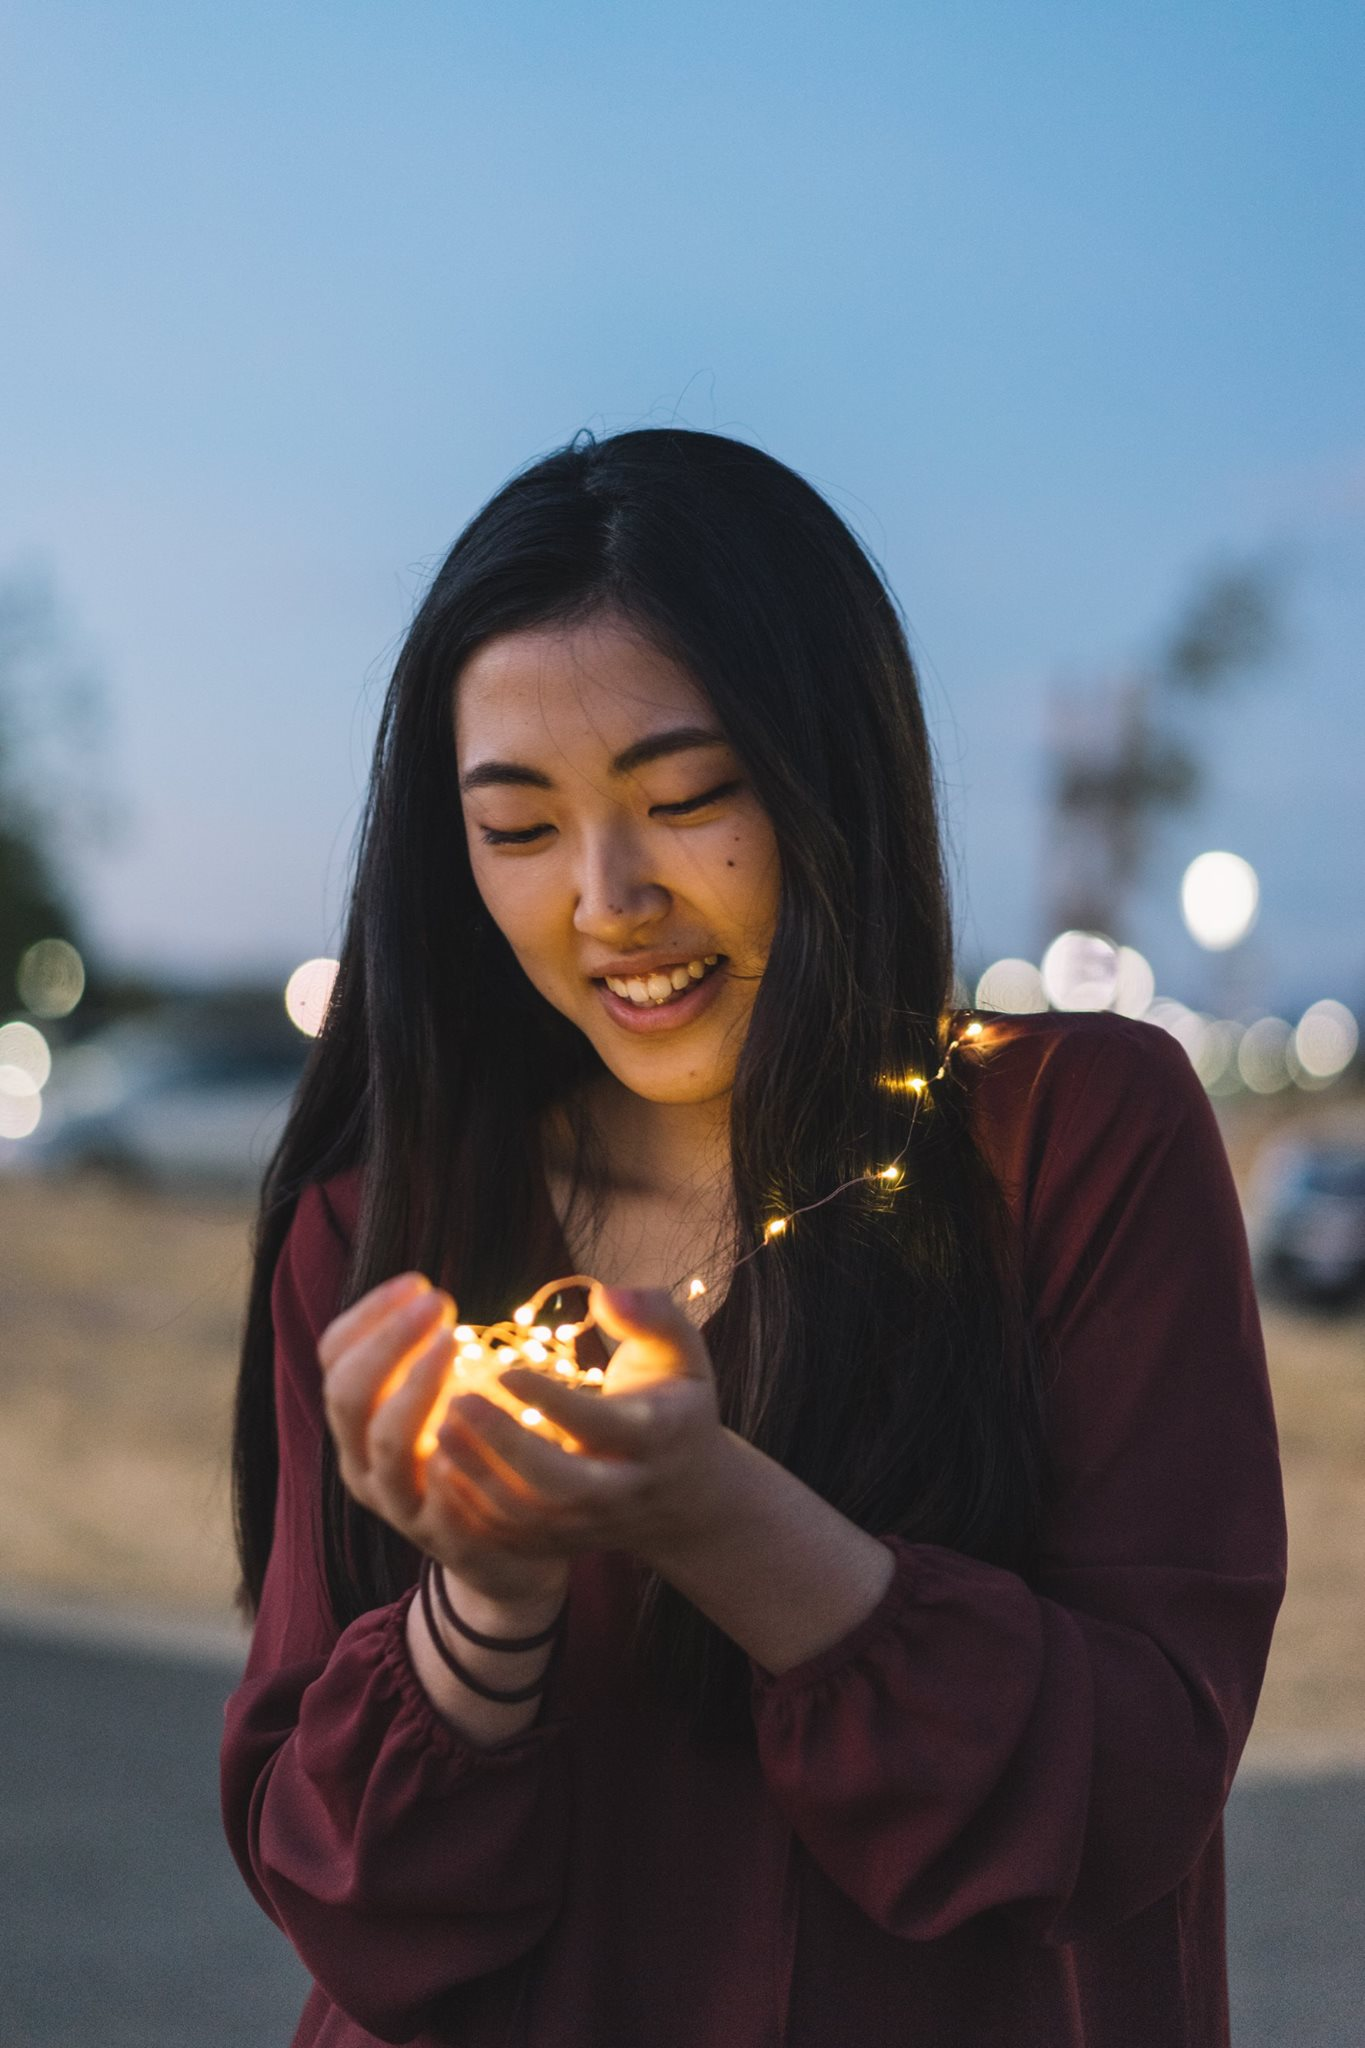
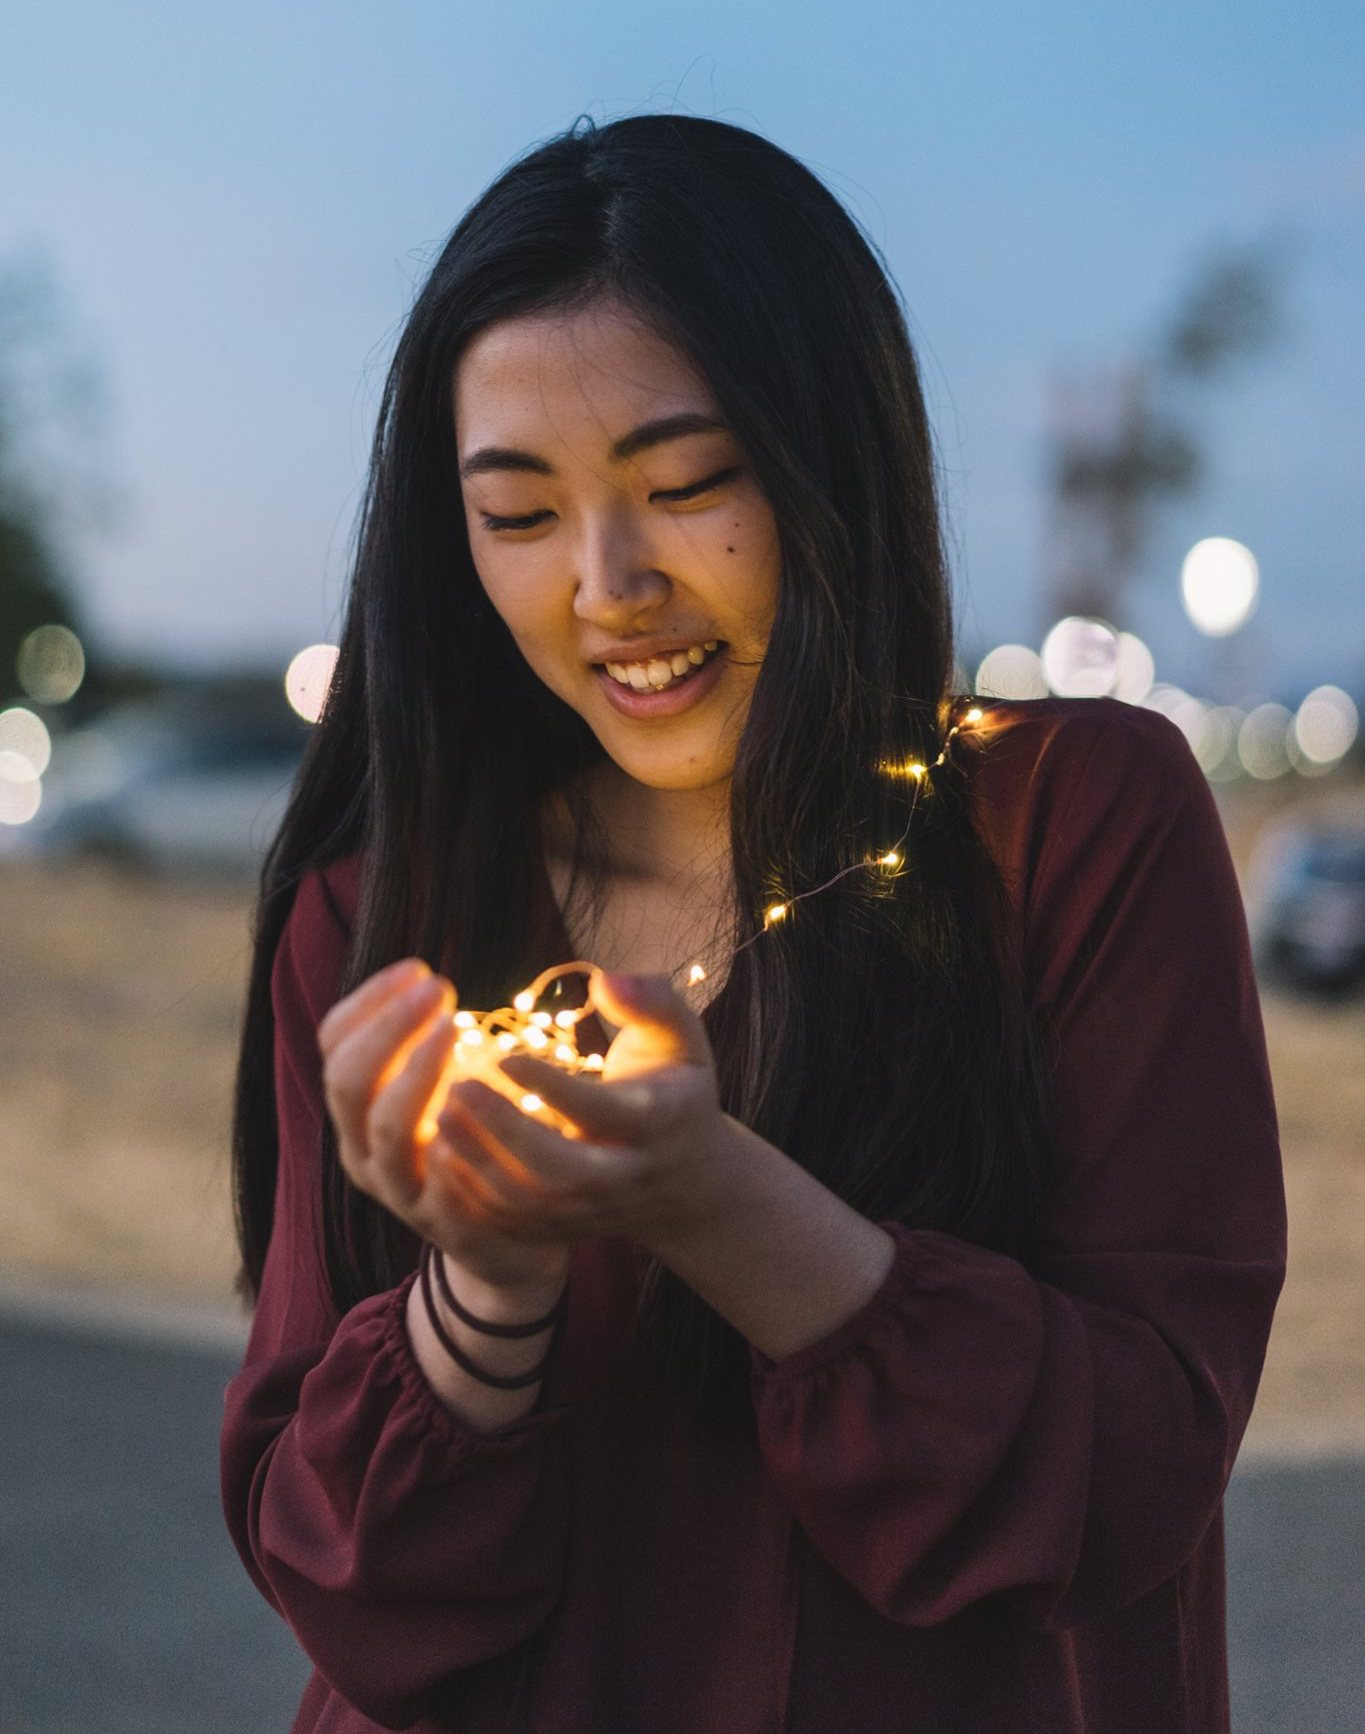
about me page

diff --git a/about.html b/about.html
@@ -54,8 +54,15 @@
 
             <div class="profile-wrapper">
 	            <div class="profile-photo-wrapper col-10">
-					<img class="profile-photo" src="img/me1.jpg">
 					<img class="profile-photo" src="img/me2.jpg">
+				</div>
+				<div class="about-wrapper col-10">
+					<h1 class="grid-title"> HEY THERE! </h1>
+					<p> 
+						I'm Clara - a lover of all things tech and design-related. I'm currently a third year Computer Science major at UC Berkeley, and I'm looking for software engineering or UX opportunities for this summer.
+						I grew up in Minnesota but moved to the bay for college, and I love the culture and abundance of opportunities here. I hope that I can use my skills to do good and help those who are less fortunate.<br><br>
+						In my free time, you can catch me dancing, baking, or taking photos (check them out <a href="https://www.flickr.com/photos/156746515@N04/" target="_blank"> here</a>). Recently, I've been trying to find what makes me happy and do things that are out of my comfort zone. I've been learning more about myself and discovering new hobbies and foods every day!
+					</p>
 				</div>
 			</div>
         </div>

diff --git a/css/about.css b/css/about.css
@@ -1,5 +1,14 @@
 @import "main.css";
 
+a {
+	color: #ff9581;
+}
+
+a:hover {
+	color: #FFC0B4;
+}
+
+
 .profile-wrapper {
 
 }
@@ -7,10 +16,21 @@
 .profile-photo-wrapper {
 	display: block;
 	text-align: center;
-	height: 25em;
+	height: 35em;
+	white-space: nowrap;
 }
 
 .profile-photo {
 	height: 100%;
 	/*width: 100%;*/
+}
+
+.about-wrapper {
+	margin: 0 auto;
+	width: 60%;
+}
+
+.grid-title {
+	text-align: left;
+	padding-bottom: 0;
 }
